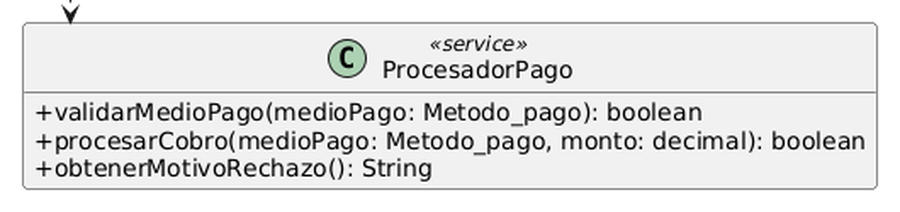
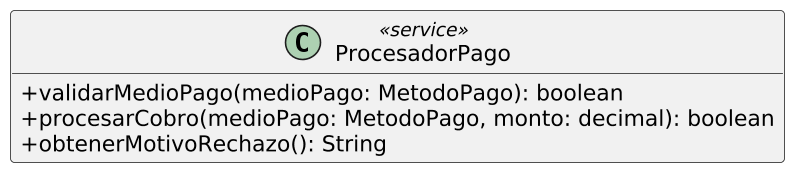
Unifico CU5 y los contratos de CU2, CU3 y CU4 y actualizo el diagrama final segun RC4 y RC18 a RC23
- RC4/RC23: el Usuario de Mostrador visualiza solo LISTO y Cocina RECIBIDO y
  EN_PREPARACION; seleccionarEstadosVisibles(actor: Usuario) es la unica firma
  en anexo, secuencia, pseudocodigo, diagrama del CU5 y diagrama final.
- RC20: calcularDiferencia(totalAnterior, totalActualizado) en CU1, CU2,
  happy path y diagrama final.
- RC21: registrarAccion con accion y fechaHora (y su sobrecarga con
  autorizante) en el diagrama final y pilares POO.
- RC22: obtenerEstado(), validarTransicion(nuevoEstado, actor) y
  cambiarEstado(nuevoEstado) en CU3 y CU4; ServicioPedidos localiza el
  pedido con buscarPedido(numeroPedido).
- RC19/RC18: el diagrama final incorpora asociarPago, registrarPedido,
  obtenerTotal, conservarPrecioHistorico y descartarPedidoEnCurso; se quita
  registrarPedido() de UsuarioMostrador.
- Regenero los PNG modificados y las capturas de pilares POO.

Changed region(s): [[0.0, 0.0, 0.9975, 0.9116]]

diff --git a/anexos/analisis-funcional/05-caso-de-uso-consultar-pedidos-activos.md b/anexos/analisis-funcional/05-caso-de-uso-consultar-pedidos-activos.md
@@ -20,6 +20,8 @@
 **Flujos alternativos:**
 
 - **A1: No hay pedidos activos.** Si no hay pedidos en estado `RECIBIDO`, `EN_PREPARACION` o `LISTO`, el sistema muestra la vista vacía e informa que no hay pedidos activos.
+
+**Regla de estados visibles por actor:** Cocina visualiza los pedidos `RECIBIDO` y `EN_PREPARACION`; el Usuario de Mostrador visualiza únicamente los pedidos `LISTO` para su entrega. Esta regla se aplica igual en el diagrama de casos de uso, la actividad, la secuencia, el pseudocódigo y los diagramas de clases mediante `ServicioPedidos.seleccionarEstadosVisibles(actor: Usuario): List<EstadoPedido>`.
 - **A2: Falla de conexión o actualización.** Si se interrumpe la comunicación durante la consulta, el sistema advierte que los datos mostrados pueden estar desactualizados.
 
 **Requisitos funcionales que satisface:**
@@ -41,7 +43,7 @@
 - **Usuario de Mostrador** → consulta el estado de las entregas en `LISTO`, según el caso de uso A2.
 - **Include/Extend:** "Consultar Pedidos Activos" incluye obtener el listado y ordenarlo porque son tareas comunes de la consulta. Las vistas de Cocina y Mostrador extienden el caso base para representar consultas por actor. "Destacar pedidos prioritarios" extiende el ordenamiento cuando hay pedidos prioritarios. "Informar falta de conexión o datos desactualizados" extiende la consulta cuando ocurre una falla.
 
-**Nota de consistencia documental:** el diagrama de casos de uso y el de actividades indican que Mostrador consulta pedidos `LISTO`; la descripción general de CU05 en `introduccion.md` dice que Mostrador visualiza todos los pedidos activos, y la secuencia CU05 filtra para Mostrador `RECIBIDO`, `EN_PREPARACION` y `LISTO`. El escenario tampoco resuelve esa diferencia de alcance. Se conserva aquí la vista `LISTO` al explicar el diagrama de casos de uso y se deja documentada la discrepancia; no se interpreta como una decisión de diseño ya resuelta.
+La vista `LISTO` del Usuario de Mostrador es la misma en la descripción del CU05 de `introduccion.md`, el escenario, la actividad, la secuencia y el pseudocódigo.
 
 ---
 
@@ -76,14 +78,14 @@
 - `comprobarDisponibilidadDatos()` → comprueba si la consulta cuenta con datos disponibles; el resultado se devuelve como `resultadoDisponibilidad`.
 - `obtenerPedidosPorEstados("RECIBIDO", "EN_PREPARACION", "LISTO")` → obtiene los pedidos activos y devuelve `listaPedidosActivos`.
 - `obtenerEstado()` y `esPrioritario()` → consultan, para cada pedido, el estado y la marca de urgencia.
-- `agruparPedidosPorEstado(listaPedidosActivos)`, `ordenarGrupoPorPrioridad(urgentesPrimero)` y `seleccionarEstadosVisibles(...)` → agrupan, priorizan y adaptan los estados consultados al actor.
+- `agruparPedidosPorEstado(listaPedidosActivos)`, `ordenarGrupoPorPrioridad(urgentesPrimero)` y `seleccionarEstadosVisibles(actorSolicitante)` → agrupan, priorizan y adaptan los estados consultados al actor: para Cocina devuelve `RECIBIDO` y `EN_PREPARACION`; para Mostrador, `LISTO`.
 - `retornarPedidosAgrupadosYOrdenados(vistaAdaptada)` → devuelve a la pantalla el resultado ordenado; la pantalla presenta la vista al actor.
 - `consultarDetallePedido(numeroPedido)` y `obtenerDetallePedido(numeroPedido)` → solicitan el detalle; `Pedido.obtenerDetalle()` devuelve `detallePedido` y el servicio devuelve ese resultado a la pantalla.
 - `mostrarVistaVacia("No hay pedidos activos")` y `advertirDatosDesactualizados()` → representan las respuestas de la pantalla en los flujos alternativos correspondientes.
 
 **Objetos temporales destruidos:** no se representan objetos temporales ni mensajes de destrucción en esta secuencia. `:Pedido` representa un pedido consultado, no una instancia creada para la consulta.
 
-**Nota de trazabilidad:** `retornarPedidosAgrupadosYOrdenados(...)`, `retornarDetalle(...)` y los mensajes `mostrar...` se dibujan como respuestas (`-->`) en la secuencia. Por eso se documentan como resultados presentados/devueltos, no como métodos invocados en el diagrama de clases. Además, la secuencia escribe los estados como cadenas entre comillas, mientras las firmas del diagrama de clases usan `EstadoPedido`; debe armonizarse esa tipificación en los artefactos fuente.
+**Nota de trazabilidad:** `retornarPedidosAgrupadosYOrdenados(...)`, `retornarDetalle(...)` y los mensajes `mostrar...` se dibujan como respuestas (`-->`) en la secuencia. Por eso se documentan como resultados presentados/devueltos, no como métodos invocados en el diagrama de clases. Los estados se escriben como valores de `EstadoPedido` (sin comillas) en la secuencia, el pseudocódigo y las firmas del diagrama de clases.
 
 ---
 
@@ -157,11 +159,9 @@ SINO
         ServicioPedidos.ordenarGrupoPorPrioridad(urgentesPrimero)
     FIN PARA
 
-    SI actorSolicitante es Cocina
-        estadosVisibles = ServicioPedidos.seleccionarEstadosVisibles(RECIBIDO, EN_PREPARACION)
-    SINO SI actorSolicitante es Usuario de Mostrador
-        estadosVisibles = ServicioPedidos.seleccionarEstadosVisibles(RECIBIDO, EN_PREPARACION, LISTO)
-    FIN SI
+    estadosVisibles = ServicioPedidos.seleccionarEstadosVisibles(actorSolicitante)
+        // Cocina: RECIBIDO y EN_PREPARACION
+        // Usuario de Mostrador: LISTO
 
     // consulta devuelve la vista agrupada, ordenada y adaptada al actor.
     vistaAdaptada = resultado de consulta
@@ -181,4 +181,4 @@ FIN SI
 FIN
 ```
 
-**Nota de consistencia del pseudocódigo:** se mantienen los filtros del diagrama de secuencia y del diagrama de clases existente. En esos artefactos, Mostrador selecciona los tres estados activos. Esto contradice el diagrama de casos de uso y el de actividades, que limitan la vista de Mostrador a `LISTO`; debe resolverse esa diferencia en los artefactos de origen antes de considerar un único comportamiento definitivo.
+**Nota de consistencia del pseudocódigo:** `seleccionarEstadosVisibles(actorSolicitante)` tiene la misma firma en el pseudocódigo, la secuencia, el diagrama de clases del CU5 y el diagrama final. El servicio decide los estados visibles según el actor: Cocina ve `RECIBIDO` y `EN_PREPARACION`; Mostrador ve `LISTO`, como en el diagrama de casos de uso y el de actividades.

diff --git a/anexos/analisis-funcional/pilares-poo.md b/anexos/analisis-funcional/pilares-poo.md
@@ -10,7 +10,7 @@ Este anexo analiza cómo el diagrama de clases final del Sistema de Pedidos ([ve
 
 **Ejemplo 1 — Pedido:**
 
-`Pedido` declara todos sus atributos como privados (`fechaHora`, `numeroPedido`, `referenciaRetiro`, `estado`, `prioritario` y `total`). Hacia afuera solo expone métodos públicos que controlan cada cambio: `agregarItem`, `agregarItemCombo`, `actualizarTotal()`, `priorizar()`, `validarTransicion(nuevoEstado, actor)` y `cambiarEstado(nuevoEstado)`. Ninguna otra clase puede fijar el total ni el estado a mano: el total se recalcula con `actualizarTotal()` cuando cambia un ítem, y el estado solo cambia si `validarTransicion` lo permite. Esto protege el RF1, que exige que el precio total se recalcule de forma precisa al registrar el pedido, y evita que `UsuarioMostrador`, `UsuarioCocina` o el `ServicioPedidos` dejen un pedido con un total que no coincide con la suma de los subtotales o con un estado que salta pasos del flujo.
+`Pedido` declara todos sus atributos como privados (`fechaHora`, `numeroPedido`, `referenciaRetiro`, `estado`, `prioritario` y `total`). Hacia afuera solo expone métodos públicos que controlan cada cambio: `agregarItem`, `agregarItemCombo`, `obtenerTotal()`, `asociarPago(pago)`, `priorizar()`, `validarTransicion(nuevoEstado, actor)` y `cambiarEstado(nuevoEstado)`. Ninguna otra clase puede fijar el total ni el estado a mano: el total se recalcula con `actualizarTotal(subtotal)`, que es privado, cada vez que se agrega un ítem, y el estado solo cambia si `validarTransicion` lo permite. Esto protege el RF1, que exige que el precio total se recalcule de forma precisa al registrar el pedido, y evita que `UsuarioMostrador`, `UsuarioCocina` o el `ServicioPedidos` dejen un pedido con un total que no coincide con la suma de los subtotales o con un estado que salta pasos del flujo.
 
 ![Encapsulamiento - Ejemplo 1](../../diagramas/01-diagrama-clases/capturas-pilares/poo-encapsulamiento-ejemplo-1.png)
 
@@ -34,7 +34,7 @@ Este anexo analiza cómo el diagrama de clases final del Sistema de Pedidos ([ve
 
 **Ejemplo 2 — Usuario → UsuarioMostrador (UsuarioCocina y UsuarioEncargado):**
 
-`UsuarioMostrador` hereda de `Usuario` las credenciales (`nombre`, `usuario`, `passwordHash`, `activo`) y el método `autentificar`, y agrega `numeroCaja` junto con `registrarPedido()`, `modificarPedido(pedido)` y `marcarComoEntregado(pedido)`. `UsuarioCocina` (`estacionTrabajo`, `iniciarPreparacion(pedido)`, `marcarPedidoListo(pedido)`) y `UsuarioEncargado` (`claveSupervision`, `autorizarCancelacion()`, `validarClaveSupervision(clave)`) heredan de la misma superclase. Lo que comparten es la identidad del personal que accede al sistema, y cada rol suma las operaciones que le corresponden.
+`UsuarioMostrador` hereda de `Usuario` las credenciales (`nombre`, `usuario`, `passwordHash`, `activo`) y el método `autentificar`, y agrega `numeroCaja` junto con `modificarPedido(pedido)` y `marcarComoEntregado(pedido)` (el registro del pedido lo coordina `ServicioPedidos` mediante `Pedido.registrarPedido(...)`). `UsuarioCocina` (`estacionTrabajo`, `iniciarPreparacion(pedido)`, `marcarPedidoListo(pedido)`) y `UsuarioEncargado` (`claveSupervision`, `autorizarCancelacion()`, `validarClaveSupervision(clave)`) heredan de la misma superclase. Lo que comparten es la identidad del personal que accede al sistema, y cada rol suma las operaciones que le corresponden.
 
 ![Herencia - Ejemplo 2](../../diagramas/01-diagrama-clases/capturas-pilares/poo-herencia-ejemplo-2.png)
 
@@ -52,7 +52,7 @@ Tanto `Producto` como `Combo` responden a `obtenerNombre()` y `obtenerPrecio()`,
 
 **Ejemplo 2 — el parámetro Usuario en AuditoriaPedido.registrarAccion() y Pedido.validarTransicion():**
 
-`AuditoriaPedido.registrarAccion(pedido, responsable: Usuario, autorizante: UsuarioEncargado)` y `Pedido.validarTransicion(nuevoEstado, actor: Usuario)` reciben un `Usuario` sin importar su subclase. Allí puede llegar un `UsuarioMostrador`, un `UsuarioCocina` o un `UsuarioEncargado`, y el mismo método responde según quién es el actor: la validación permite o rechaza la transición de estado según el rol, y la auditoría guarda a quien realizó la acción. Es polimorfismo de subtipo: un único método sirve para las tres subclases sin conocer cuál es.
+`AuditoriaPedido.registrarAccion(pedido, usuario: Usuario, accion, fechaHora)` (y su sobrecarga con `autorizante: UsuarioEncargado`) y `Pedido.validarTransicion(nuevoEstado, actor: Usuario)` reciben un `Usuario` sin importar su subclase. Allí puede llegar un `UsuarioMostrador`, un `UsuarioCocina` o un `UsuarioEncargado`, y el mismo método responde según quién es el actor: la validación permite o rechaza la transición de estado según el rol, y la auditoría guarda a quien realizó la acción. Es polimorfismo de subtipo: un único método sirve para las tres subclases sin conocer cuál es.
 
 ![Polimorfismo - Ejemplo 2](../../diagramas/01-diagrama-clases/capturas-pilares/poo-polimorfismo-ejemplo-2.png)
 

diff --git a/anexos/analisis-funcional/04-caso-de-uso-cambiar-estado-de-pedido.md b/anexos/analisis-funcional/04-caso-de-uso-cambiar-estado-de-pedido.md
@@ -71,10 +71,10 @@
 **Mensajes clave:**
 
 - `seleccionarPedido(numeroPedido)` → solicita mostrar el estado del pedido seleccionado.
-- `consultarEstado(numeroPedido)` → `ServicioPedidos` solicita a `Pedido` `obtenerEstado(numeroPedido)` y devuelve el estado actual.
+- `consultarEstado(numeroPedido)` → `ServicioPedidos` localiza el pedido con `buscarPedido(numeroPedido)`, le solicita `obtenerEstado()` y devuelve el estado actual.
 - `iniciarPreparacion(numeroPedido)`, `finalizarPreparacion(numeroPedido)` y `registrarEntrega(numeroPedido)` → expresan la acción del actor correspondiente; la pantalla solicita `solicitarCambioEstado(numeroPedido, nuevoEstado, actor)`.
-- `validarTransicion(estadoActual, nuevoEstado, actor)` → comprueba la validez de la transición y la autorización del actor.
-- `actualizarEstado(nuevoEstado)` → cambia el estado cuando la transición es válida.
+- `validarTransicion(nuevoEstado, actor)` → `Pedido` compara su estado vigente con el nuevo estado y comprueba la validez de la transición y la autorización del actor.
+- `cambiarEstado(nuevoEstado)` → cambia el estado cuando la transición es válida.
 - `registrarCambioEstado(pedido, estadoAnterior, estadoNuevo, actor)` → registra el cambio en `HistorialCambioPedido`.
 - `motivoRechazo` y `rechazoTransicion` → devuelven el rechazo sin modificar el estado cuando la solicitud no es válida o autorizada.
 
@@ -127,7 +127,7 @@ INICIO Cambiar Estado de Pedido
 
 actorSolicitante selecciona un pedido mediante PantallaPedidos.seleccionarPedido(numeroPedido)
 estadoActual = ServicioPedidos.consultarEstado(numeroPedido)
-    // ServicioPedidos consulta Pedido.obtenerEstado(numeroPedido)
+    // ServicioPedidos localiza el pedido con buscarPedido(numeroPedido) y consulta Pedido.obtenerEstado()
 
 SI actorSolicitante es Cocina Y estadoActual es RECIBIDO
     PantallaPedidos.iniciarPreparacion(numeroPedido)
@@ -145,11 +145,11 @@ FIN SI
 
 // ServicioPedidos coordina la comprobación y el cambio solicitado por la pantalla.
 resultado = ServicioPedidos.solicitarCambioEstado(numeroPedido, nuevoEstado, actorSolicitante)
-    // Pedido.validarTransicion(estadoActual, nuevoEstado, actorSolicitante)
+    // Pedido.validarTransicion(nuevoEstado, actorSolicitante)
 
 SI la transición es válida y el actor está autorizado
     // Pedido actualiza su único estado vigente.
-    Pedido.actualizarEstado(nuevoEstado)
+    Pedido.cambiarEstado(nuevoEstado)
     // El servicio registra los valores anterior y nuevo junto con el actor.
     HistorialCambioPedido.registrarCambioEstado(pedido, estadoActual, nuevoEstado, actorSolicitante)
     Retornar "Cambio confirmado"

diff --git a/diagramas/03-escenarios-casos-de-uso/03-consultar-pedidos-activos-prioridad-urgentes-01.md b/diagramas/03-escenarios-casos-de-uso/03-consultar-pedidos-activos-prioridad-urgentes-01.md
@@ -26,6 +26,6 @@
 | **Poscondiciones:**                       | Los pedidos activos quedan disponibles para consulta, mostrando su estado actual y respetando la prioridad de los pedidos urgentes dentro del mismo estado.                                                                                                                                 |
 | **Suposiciones:**                         | Los pedidos activos corresponden a los estados `RECIBIDO`, `EN_PREPARACION` y `LISTO`. La prioridad urgente se encuentra registrada en el pedido.                                                                                                                                           |
 | **Requerimientos:**                       | RF3, RF7, RNF2, RNF4, RNF5                                                                                                                                                                                                                                                                  |
-| **Aspectos sobresalientes:**              | Solo se muestran pedidos `RECIBIDO`, `EN_PREPARACION` y `LISTO`; cada pedido aparece una sola vez. Los prioritarios se anteponen dentro de su estado. Si no hay pedidos se muestra la vista vacía y, ante una falla de conexión, se advierte que la información puede estar desactualizada. |
+| **Aspectos sobresalientes:**              | Solo se muestran pedidos `RECIBIDO`, `EN_PREPARACION` y `LISTO`; Cocina ve `RECIBIDO` y `EN_PREPARACION` y el Usuario de Mostrador ve únicamente `LISTO`; cada pedido aparece una sola vez. Los prioritarios se anteponen dentro de su estado. Si no hay pedidos se muestra la vista vacía y, ante una falla de conexión, se advierte que la información puede estar desactualizada. |
 | **Prioridad:**                            | Alta                                                                                                                                                                                                                                                                                        |
 | **Riesgo:**                               | Medio                                                                                                                                                                                                                                                                                       |

diff --git a/anexos/analisis-funcional/happy-path-global.md b/anexos/analisis-funcional/happy-path-global.md
@@ -67,24 +67,29 @@ servicio.ingresarPersonalizacion("Extra queso")
 PersonalizacionItem extra = itemHamburguesa.agregarPersonalizacion("Extra queso")
 costoExtra = extra.calcularCosto()
 
-// Cada ítem calcula su subtotal y el pedido recalcula el total.
+// Cada ítem calcula su subtotal; el pedido acumula cada subtotal con actualizarTotal(subtotal)
+// (operación interna de Pedido) y expone el total con obtenerTotal().
 itemHamburguesa.calcularSubtotal()
 itemCombo.calcularSubtotal()
-total = pedido.actualizarTotal()
+total = pedido.obtenerTotal()
 
 // El cliente prefiere pagar por transferencia: se valida el medio antes de cobrar (RF8).
 medio = MetodoPago.TRANSFERENCIA
+resultadoPago = servicio.seleccionarMedioPago(medio)
 medioValido = procesador.validarMedioPago(medio)
 SI medioValido ENTONCES
     cobroAprobado = procesador.procesarCobro(medio, total)
     Pago pago = nuevo Pago(total, medio, fechaHoraActual)
     pago.registrarCobro(medio, total)
+    pedido.asociarPago(pago)
     HistorialPago historialPago = nuevo HistorialPago()
     historialPago.registrarMovimiento(pago, TipoMovimiento.COBRO_INICIAL, total, "Cobro del pedido", mostrador)
 FIN SI
+// Si el cobro fuera rechazado, el servicio invocaría servicio.descartarPedidoEnCurso() (CU1).
 
 // El pedido queda confirmado en estado RECIBIDO y se envía a la pantalla de Cocina (RF2).
-confirmado = servicio.confirmarPedido(medio)
+pedido.registrarPedido(numeroPedido, fechaHoraActual, "Carla", pedido.obtenerDetalle(), total, pago)
+pedido.cambiarEstado(EstadoPedido.RECIBIDO)
 estadoActual = pedido.obtenerEstado()          // EstadoPedido.RECIBIDO
 pantallaCocina.enviarCabeceraPedido(numeroPedido, fechaHoraActual, "Carla")
 pantallaCocina.enviarDetallePedido(pedido.obtenerDetalle(), total)
@@ -105,8 +110,8 @@ SI estadoActual == EstadoPedido.RECIBIDO ENTONCES
     pedido.agregarItem(bebida, 1)
 
     // El sistema recalcula el total y obtiene la diferencia contra lo ya abonado (RF8).
-    totalNuevo = pedido.actualizarTotal()
-    diferencia = pago.calcularDiferencia(totalNuevo)
+    totalNuevo = pedido.obtenerTotal()
+    diferencia = pago.calcularDiferencia(total, totalNuevo)
 
     // La diferencia es a favor del negocio: se cobra y queda registrada para auditoría.
     SI diferencia > 0 ENTONCES

diff --git a/anexos/introduccion.md b/anexos/introduccion.md
@@ -318,7 +318,7 @@ __Flujo principal de eventos:__
 1. El actor accede a la pantalla de monitoreo de pedidos.
 2. El sistema obtiene los pedidos activos registrados.
 3. El sistema muestra los pedidos agrupados o filtrados según su estado.
-4. El sistema obtiene los pedidos en los estados activos (RECIBIDO, EN_PREPARACION y LISTO), diferenciando la vista según el actor (Cocina visualiza RECIBIDO y EN_PREPARACION; Mostrador visualiza todos los activos para el seguimiento y entrega).
+4. El sistema obtiene los pedidos en los estados activos (RECIBIDO, EN_PREPARACION y LISTO), diferenciando la vista según el actor (Cocina visualiza RECIBIDO y EN_PREPARACION; Mostrador visualiza únicamente los pedidos LISTO para su entrega).
 5. El sistema lee el atributo de dominio de prioridad del pedido (prioritario = true) y ordena la lista anteponiendo los pedidos urgentes sobre el resto dentro de su mismo estado, garantizando que el orden de atención en cocina cambie sin alterar la máquina de estados del pedido.
 6. El actor consulta la información de los pedidos según sus necesidades.
 7. El sistema garantiza que cada pedido figure en un único estado a la vez.

diff --git a/anexos/analisis-funcional/03-caso-de-uso-cancelar-pedido.md b/anexos/analisis-funcional/03-caso-de-uso-cancelar-pedido.md
@@ -116,7 +116,7 @@
 
 - `solicitarCancelacionPedido(numeroPedido)` → inicia la solicitud de cancelación del pedido.
 - `consultarPedidoYEstado(numeroPedido)` → obtiene el pedido solicitado y consulta su estado actual.
-- `obtenerEstado(numeroPedido)` → devuelve el estado vigente del pedido.
+- `obtenerEstado()` → `ServicioPedidos` localiza el pedido con `buscarPedido(numeroPedido)` y `Pedido` devuelve el estado vigente del pedido.
 - `solicitarAutorizacion(numeroPedido)` → solicita la intervención del Encargado cuando el pedido está EN_PREPARACION.
 - `solicitarClaveSupervision(numeroPedido)` → solicita la clave de supervisión del Encargado.
 - `validarClaveSupervision(claveSupervision)` → verifica si la autorización ingresada es válida.
@@ -193,7 +193,7 @@ No participa directamente en el diagrama de secuencia porque el proceso de cance
         FIN SI
 
         // Se consulta el estado actual del pedido.
-        estadoAnterior = pedido.obtenerEstado(numeroPedido)
+        estadoAnterior = pedido.obtenerEstado()
 
         SI estadoAnterior == RECIBIDO
 

diff --git a/anexos/analisis-funcional/02-caso-de-uso-modificar-pedido.md b/anexos/analisis-funcional/02-caso-de-uso-modificar-pedido.md
@@ -132,7 +132,7 @@
 - `calcularSubtotal(...)` → obtiene el subtotal correspondiente a cada ítem.
 - `recalcularPrecio()` → actualiza el importe del ítem.
 - `consultarPagoOriginal()` → obtiene la información del pago anterior.
-- `calcularDiferencia()` → determina la diferencia entre el pago anterior y el nuevo total.
+- `calcularDiferencia(totalAnterior, totalActualizado)` → determina la diferencia entre el total ya abonado (`totalAnterior`) y el nuevo total del pedido (`totalActualizado`).
 - `validarMedioPago()` → comprueba que el medio seleccionado sea válido.
 - `registrarCobroAdicional()` → registra un importe adicional.
 - `registrarDevolucion()` → registra una devolución.
@@ -233,7 +233,7 @@ No se representa la destrucción explícita de objetos persistentes. Los cambios
         SI pagoOriginal existe
 
             diferencia = pago.calcularDiferencia(
-                totalNuevo, pagoOriginal.monto
+                pagoOriginal.monto, totalNuevo
             )
 
             SI diferencia != 0
